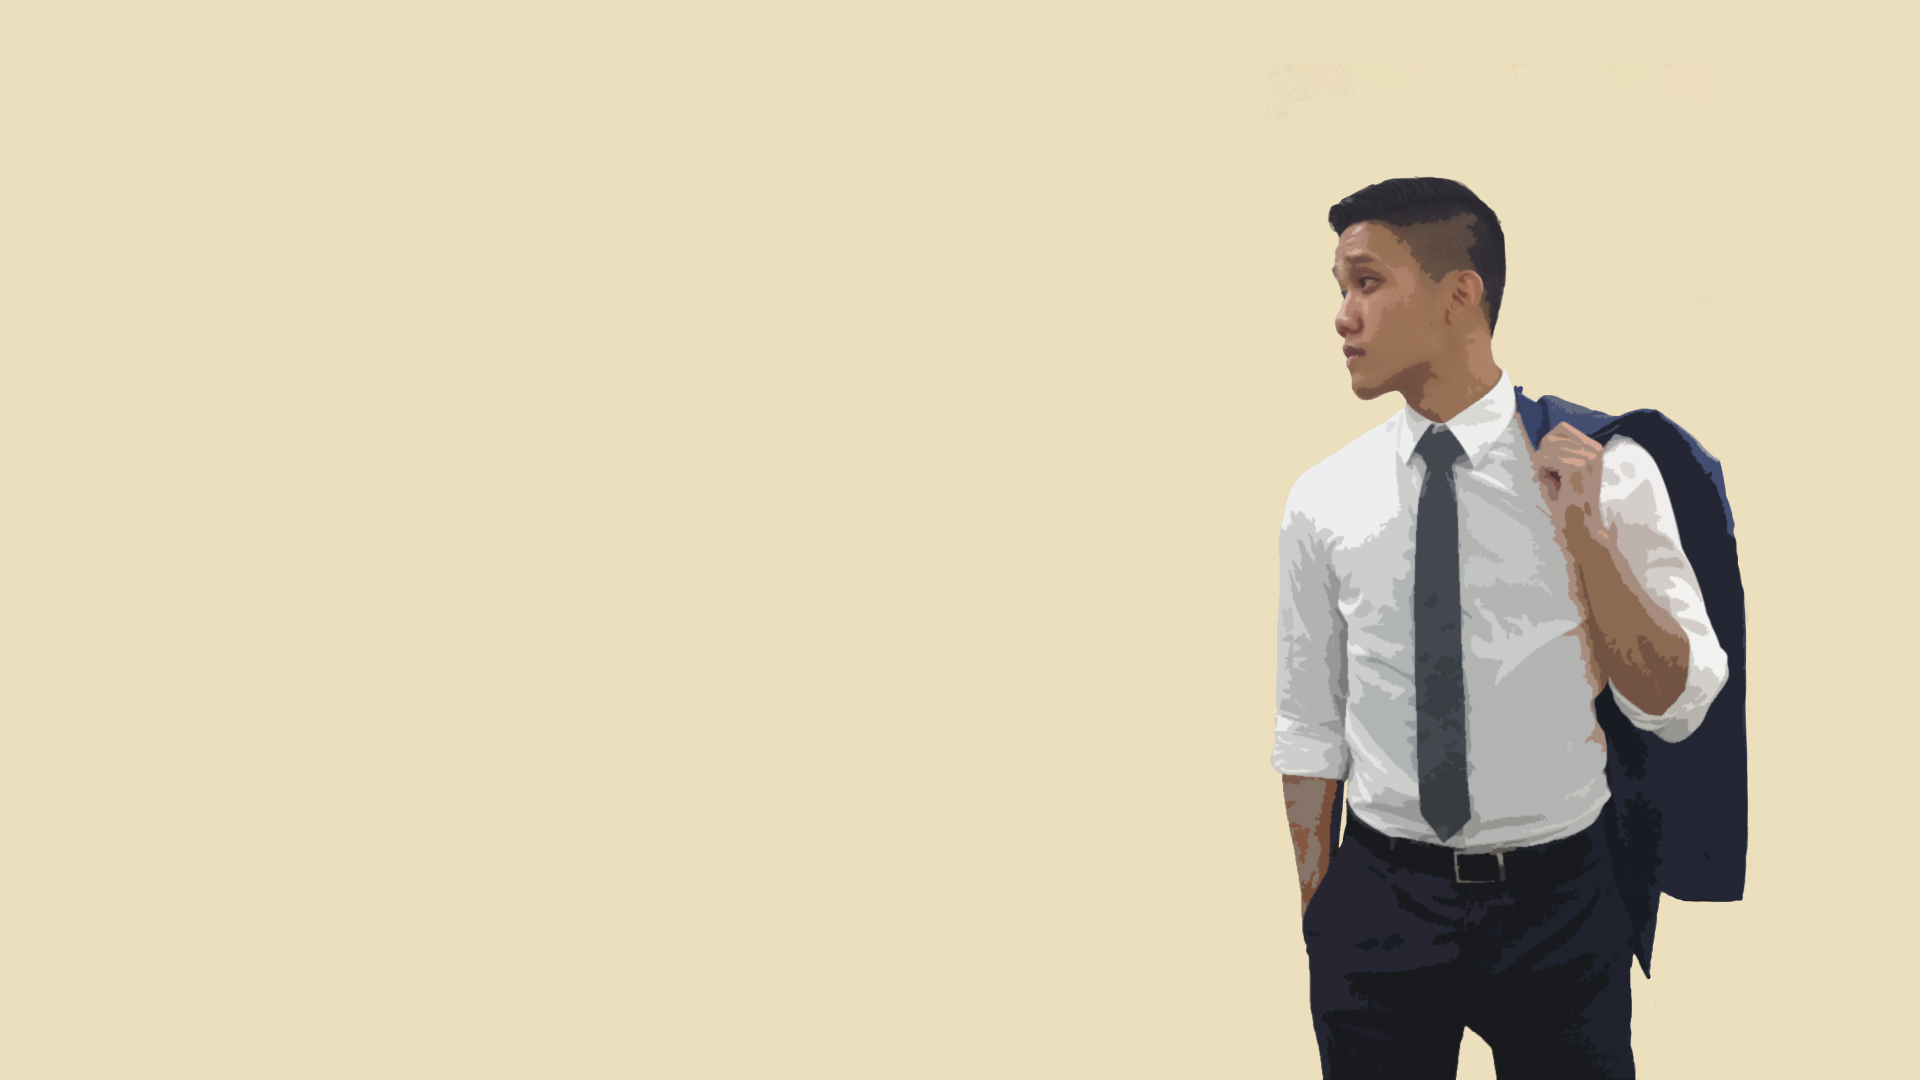
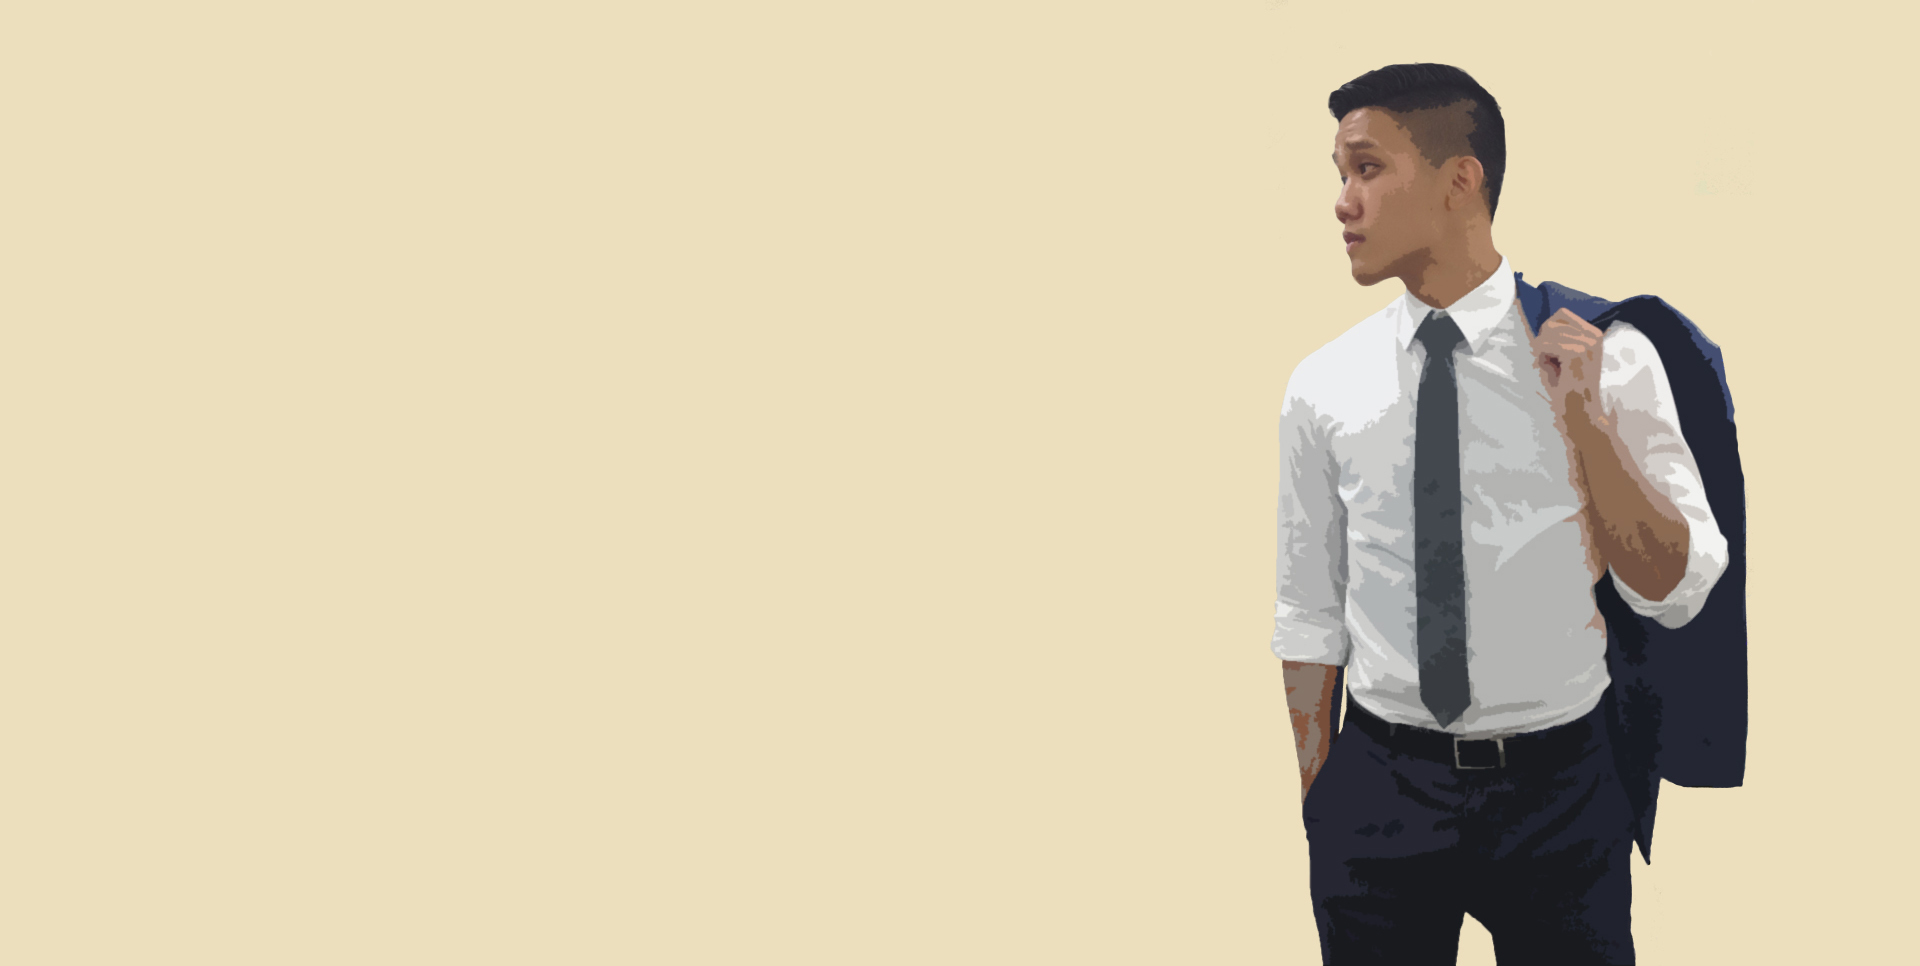
Changes to About, CSS

Changed region(s): [[0.6562, 0.0621, 0.9062, 0.8385], [0.8438, 0.8075, 0.9062, 0.8385], [0.8438, 0.8696, 0.875, 0.9006]]

diff --git a/index.html b/index.html
@@ -69,10 +69,11 @@
             </div>
         </div> 
         
-    
-                <div class="bger">
-                    <img class="img-responsive bg" src="images/self.jpg">
-                </div>
+<div class="widewrapper main">
+    <h2>
+      <img src="./images/self.jpg" class="img-responsive" alt="JOHN C. LOWERY, INC">
+    </h2>
+</div>
    
 
         <div class="container-fluid anchor" id="about">
@@ -88,10 +89,11 @@
             </div>     
             <div class="row">
                 <div class="col-lg-8 col-md-10 col-sm-10 col-lg-offset-2 col-md-offset-1 col-sm-offset-1 text-center">
-                    <p>I was born and raised in Houston, TX. Finishing my degree from The University of Texas at Austin with a major in Economics with minors in both Finance and Computer Science, I have accumulated a strong quantitative and analytic background. However, my major may not have come about in the way that you think. 
-                    <p>I love Economics because I love stories. I enjoy diving into abstract problems and relating data into real world applications. Whether it’s film or television, accounting or even big data, <em>stories--they provide us with knowledge and with that knowledge, we can solve problems</em>. Through my diverse internships ranging from analytical presentations at a media startup to asset management at a large corporate studio, I’ve developed multiple perspectives on the media industry which I hope to apply to future opportunities in film finance and distribution.</p>
-                    <p>Since then, I have strived to pursue opportunities at the nexus of analytics, finance, technology, and the media. I am fascinated by the interconnectedness between strong, pragmatic business sense and unbridled creativity seen within the media industry. With a unique perspective and a credo of "Keep your head in the clouds but your feet firmly on the ground," I seek all opportunities to expand my knowledge on my craft. </p>
-                    <p style="margin-bottom: 20px;">During my time at university, I hav striven to surround himself with and learn from the best in the industry. Including my experiences within the industry, I have also worked to accumulate familiarity with a diverse amount of practical skills from financial quantitative analysis to Photoshop to Python.</p>
+                    <p>Born and raised in Houston, TX, I am finishing my degree from The University of Texas at Austin with a major in Economics and minors in both Finance and Computer Science. Coming from a liberal arts and second generation Asian American background, I’ve realized that diversity is not just a matter of racial checkboxes but also a unique way of thinking. </p>
+                    <p>Through experiences ranging from media startups to large corporate studios, I’ve developed multiple perspectives on the media industry which I hope to apply to future opportunities in film finance and distribution. I strive toward opportunities at the nexus of business, technology, and the media. I am fascinated by the interconnectedness of unbridled creativity and pragmatic business sense seen within the media and entertainment industry.</p>
+                    <p>My ultimate career goals are forged with the edict that films do not come alive until people see them. Learning never truly ends. Whether it is within an existing company structure or through a self established company, I strive to work towards the goal of creating and delivering challenging films that connect people to each other, their communities, their cultures, and even themselves.
+</p>
+                 
                 </div>
             </div>
         </div>

diff --git a/css/main.css b/css/main.css
@@ -114,6 +114,14 @@ ul.nav a:hover {
     color: #3e6169;
 }
 
+
+.widewrapper {
+  width:100%;
+  }
+
+.widewrapper > img {
+  width:100%;
+}
 /*.jumbotron {
     height: 100%;
     background-image: url(../images/self.jpg);

diff --git a/js/_main.js b/js/_main.js
@@ -1,4 +1,6 @@
 $(document).ready(function() {     
+    
+    
     //skill hover
     $("[rel='tooltip']").tooltip();    
  
